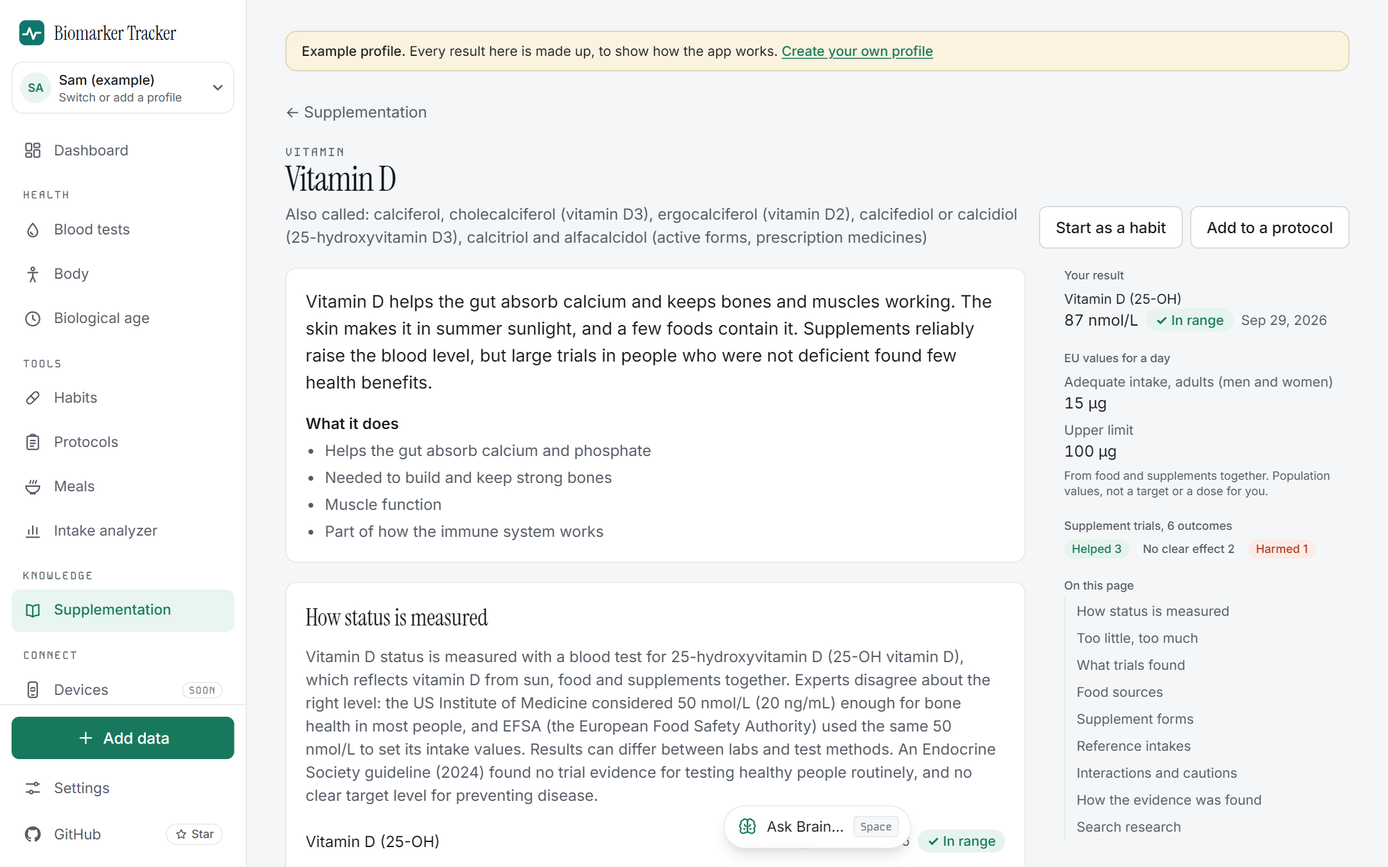
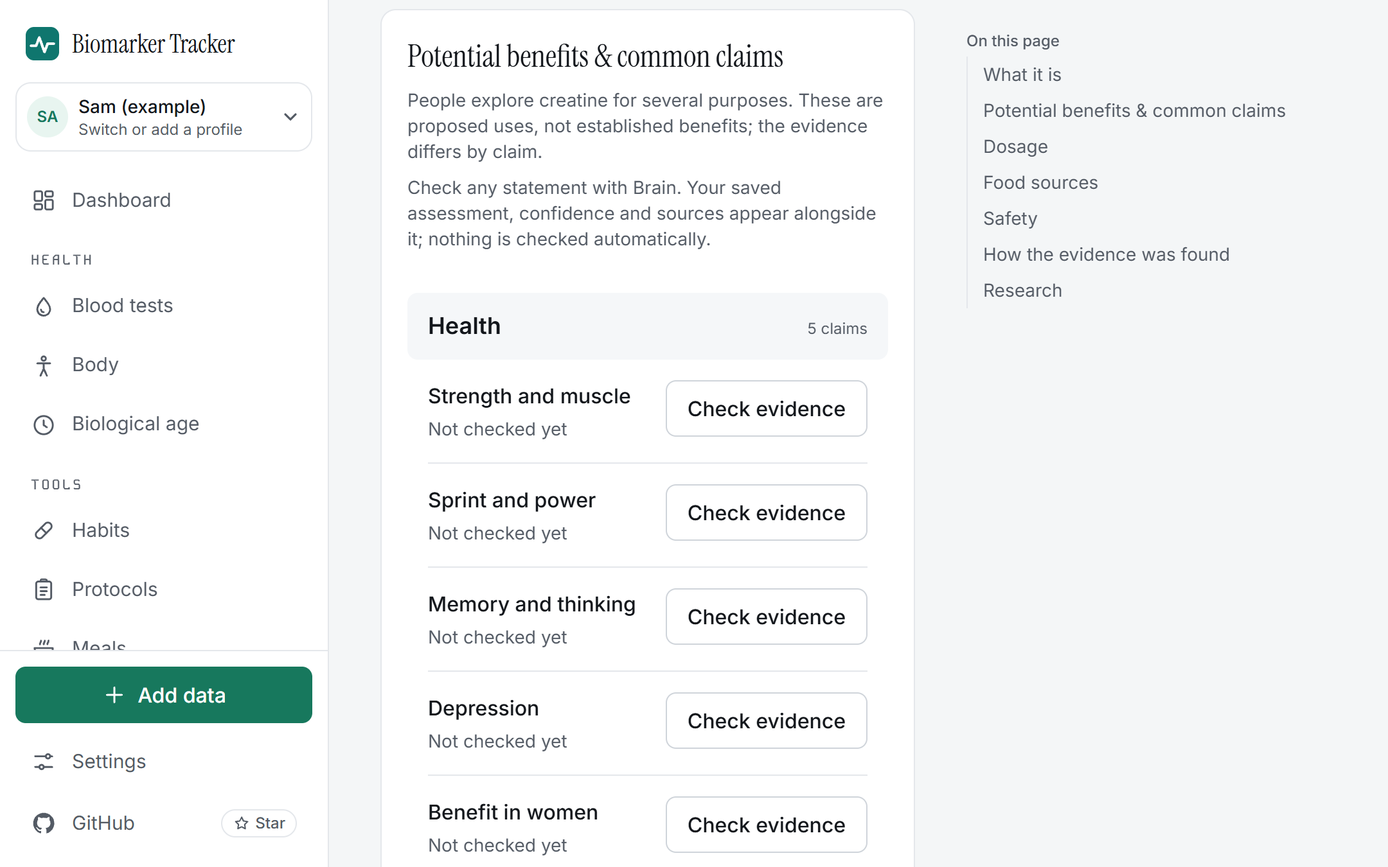
README: every feature, new screenshots; two fixes found while taking them
README adds pace of aging, aging clocks, the PhenoAge gap in Habits, HRV usual range, activity and sleep rules, waist-to-height years lost, resting metabolic rate, test and year summaries, doctor report questions, example meals, whole foods compared, intake analyzer and protocols, profiles and backups, dark mode, Brain shortcuts, streaming, Summarize with Brain and the eve engine.
New screenshots from the example profile: foods, Then and now, a supplement's claims, lifestyle drawings, test summary, doctor report, pace of aging.

Fixes: the food drawing no longer covers the Start as a habit / Add to a protocol buttons on wide screens; doctor questions say "platelets have been" instead of "platelets has been" (isPluralName, tested against every marker name).

diff --git a/packages/shared/src/core/periodSummary.ts b/packages/shared/src/core/periodSummary.ts
@@ -12,6 +12,7 @@
 import { phenoAgePace } from "./agePace";
 import { addDays, daysBetween } from "./dates";
 import { personalBand, rcvBand } from "./experiments";
+import { isPluralName } from "./testSummary";
 import { type Flag, flagMeasurement, isOutOfRange, sortByDate } from "./trends";
 import type { BiomarkerDef, Measurement, Profile } from "./types";
 import { formatValue } from "./units";
@@ -121,6 +122,8 @@ function trendOf(ms: readonly Measurement[]): PeriodMarker["trend"] {
 }
 
 const inSentence = (s: string) => (/^[A-Z][a-z]/.test(s) ? s.charAt(0).toLowerCase() + s.slice(1) : s);
+const has = (name: string) => (isPluralName(name) ? "have" : "has");
+const was = (name: string) => (isPluralName(name) ? "were" : "was");
 
 export function buildPeriodSummary(input: {
   measurements: readonly Measurement[];
@@ -215,14 +218,14 @@ function questionsFor(
     const name = inSentence(m.name);
     if (m.outside > 0 && m.outside === m.results.length && m.results.length >= 2) {
       qs.push(
-        `My ${name} was outside its range on ${m.results.length === 2 ? "both" : `all ${m.results.length}`} tests in this period. What could explain it, and does it need follow-up?`,
+        `My ${name} ${was(name)} outside its range on ${m.results.length === 2 ? "both" : `all ${m.results.length}`} tests in this period. What could explain it, and does it need follow-up?`,
       );
     } else if (m.trend && m.trend.verdict !== "unclear") {
-      qs.push(`My ${name} has been ${m.trend.verdict} over ${m.trend.tests} tests since ${fmtDate(m.trend.from)}. Is that worth following up?`);
+      qs.push(`My ${name} ${has(name)} been ${m.trend.verdict} over ${m.trend.tests} tests since ${fmtDate(m.trend.from)}. Is that worth following up?`);
     } else if (isOutOfRange(m.lastFlag)) {
       const unit = defs.get(m.id)!.canonicalUnit;
       qs.push(
-        `My latest ${name} was ${m.last.qualifier ?? ""}${formatValue(m.last.value)}${unit === "ratio" ? "" : ` ${unit}`}, outside its range. Should it be re-tested?`,
+        `My latest ${name} ${was(name)} ${m.last.qualifier ?? ""}${formatValue(m.last.value)}${unit === "ratio" ? "" : ` ${unit}`}, outside its range. Should it be re-tested?`,
       );
     }
   }

diff --git a/tests/core/testSummary.test.ts b/tests/core/testSummary.test.ts
@@ -1,7 +1,7 @@
 import { readFileSync } from "node:fs";
 import { join } from "node:path";
 import type { NutrientDef } from "@bt/shared/core/nutrients";
-import { buildTestSummary, rangeText, SUMMARY_LIMITS } from "@bt/shared/core/testSummary";
+import { buildTestSummary, isPluralName, rangeText, SUMMARY_LIMITS } from "@bt/shared/core/testSummary";
 import type { Measurement, ProtocolEntry } from "@bt/shared/core/types";
 import { describe, expect, it } from "vitest";
 import { loadDefs, measurement } from "../helpers";
@@ -161,5 +161,40 @@ describe("rangeText", () => {
     expect(rangeText({ high: 5 }, "mg/L")).toBe("below 5 mg/L");
     expect(rangeText({ low: 90 }, "ratio")).toBe("above 90");
     expect(rangeText(undefined, "g/L")).toBeUndefined();
+  });
+});
+
+describe("isPluralName", () => {
+  it("reads marker names whose main word ends in s as plural", () => {
+    for (const n of ["platelets", "Lymphocytes (%)", "neutrophils (absolute count)", "triglycerides", "Thyroid peroxidase antibodies"])
+      expect(isPluralName(n)).toBe(true);
+    for (const n of ["ferritin", "Haemoglobin (Hb)", "LDL cholesterol (LDL-C)", "Vitamin D (25-OH)", "Lp(a)"]) expect(isPluralName(n)).toBe(false);
+  });
+
+  it("finds exactly the plural names among the marker files", () => {
+    const plural = [...loadDefs().values()].filter((d) => isPluralName(d.name)).map((d) => d.name);
+    // Each of these is a plural; any new name ending in "s" must be checked by hand and added.
+    expect(plural.sort()).toEqual(
+      [
+        "Basophils (absolute count)",
+        "Basophils (%)",
+        "Daily steps",
+        "Eosinophils (absolute count)",
+        "Eosinophils (%)",
+        "Five chair rises",
+        "Lymphocytes (absolute count)",
+        "Lymphocytes (%)",
+        "Monocytes (absolute count)",
+        "Monocytes (%)",
+        "Neutrophils (absolute count)",
+        "Neutrophils (%)",
+        "Platelets",
+        "Push-ups",
+        "Red blood cells",
+        "Thyroid peroxidase antibodies",
+        "Triglycerides",
+        "White blood cells",
+      ].sort(),
+    );
   });
 });

diff --git a/packages/shared/src/core/testSummary.ts b/packages/shared/src/core/testSummary.ts
@@ -208,6 +208,10 @@ export function buildTestSummary(input: SummaryInput): TestSummary | undefined {
 const list = (names: readonly string[]) => (names.length <= 1 ? names.join("") : `${names.slice(0, -1).join(", ")} and ${names.at(-1)}`);
 /** "haemoglobin" inside a sentence, but "LDL cholesterol" and "C-reactive protein" keep their capitals. */
 const inSentence = (s: string) => (/^[A-Z][a-z]/.test(s) ? s.charAt(0).toLowerCase() + s.slice(1) : s);
+/** "platelets have", "ferritin has": every marker name whose main word ends in "s" is a plural (checked against all marker files). */
+export const isPluralName = (s: string): boolean => /s$/i.test(s.split(/ \(|,/)[0]!.trim());
+const has = (name: string) => (isPluralName(name) ? "have" : "has");
+const was = (name: string) => (isPluralName(name) ? "were" : "was");
 
 function cautionsFor(
   results: readonly SummaryResult[],
@@ -281,11 +285,13 @@ function questionsFor(
     const s = side(r.flag)!;
     const name = inSentence(def.name);
     if (r.streak >= 2) {
-      qs.push(`My ${name} has been ${s} on ${r.streak} tests in a row, since ${fmtDate(r.streakFrom)}. What could explain it, and does it need follow-up?`);
+      qs.push(
+        `My ${name} ${has(name)} been ${s} on ${r.streak} tests in a row, since ${fmtDate(r.streakFrom)}. What could explain it, and does it need follow-up?`,
+      );
     } else {
       const range = rangeText(r.range, def.canonicalUnit);
       qs.push(
-        `My ${name} was ${valueText(r.measurement, def.canonicalUnit)}, ${s === "high" ? "above" : "below"} the range${range ? ` (${range})` : ""}. What could explain it, and should it be re-tested?`,
+        `My ${name} ${was(name)} ${valueText(r.measurement, def.canonicalUnit)}, ${s === "high" ? "above" : "below"} the range${range ? ` (${range})` : ""}. What could explain it, and should it be re-tested?`,
       );
     }
   }

diff --git a/apps/web/src/app/pages/WholeFoodsPage.tsx b/apps/web/src/app/pages/WholeFoodsPage.tsx
@@ -151,15 +151,14 @@ export function WholeFoodPage({ id }: { id: string }) {
 
   return (
     <>
-      <div className="relative">
-        <div className="pointer-events-none absolute inset-x-0 top-0 max-w-3xl">
-          <FoodArt name={f.id} large />
-        </div>
+      <div>
         <a href={href({ name: "wholefoods" })} className="mb-3 inline-flex min-h-11 items-center gap-1 text-ink-2 no-underline hover:text-ink">
           <span aria-hidden="true">←</span> Foods
         </a>
         <div className="mb-5 flex flex-wrap items-end justify-between gap-3">
-          <div className="sm:pr-32">
+          {/* The drawing sits at the end of the title block, so it never covers the buttons beside it. */}
+          <div className="relative min-w-0 grow sm:pr-32">
+            <FoodArt name={f.id} large />
             <p className={eyebrowStyles}>{GROUP_LABEL[f.group]}</p>
             <h1 className="font-serif text-3xl font-normal tracking-tight sm:text-4xl">{f.name}</h1>
             {f.otherNames.length > 0 && <p className="mt-1 max-w-3xl text-ink-2">Also: {f.otherNames.slice(0, 3).join(", ")}</p>}

diff --git a/apps/web/src/app/components/FoodArt.tsx b/apps/web/src/app/components/FoodArt.tsx
@@ -434,7 +434,7 @@ export function FoodArt({ name, className, large }: { name: string; className?: 
       viewBox="0 0 64 64"
       aria-hidden="true"
       role="presentation"
-      className={`pointer-events-none absolute opacity-80 ${large ? "top-10 right-0 hidden size-28 sm:block" : "top-2 right-2 size-[4.5rem]"} ${className ?? ""}`}
+      className={`pointer-events-none absolute opacity-80 ${large ? "-top-2 right-0 hidden size-28 sm:block" : "top-2 right-2 size-[4.5rem]"} ${className ?? ""}`}
       fill="none"
       stroke={INK}
       strokeWidth="0.85"

diff --git a/README.md b/README.md
@@ -52,9 +52,13 @@ The review for PDFs and photos includes the sample date, lab name, **Were you fa
 
 The five extended lipid markers work with manual entry, PDF/photo review, charts and doctor reports. ApoA-I and ApoB support g/L, mg/dL and mg/L; non-HDL supports mmol/L and mg/dL. The two ratios are dimensionless and can be read from reports without a printed unit. These entries use your lab's supplied range rather than a universal app threshold. Ratios and non-HDL are recorded as reported, not silently calculated from other results.
 
-**Test summaries:** open **Summary of the latest test** on Blood tests, or **Summary of this test** on the timeline, for one blood test explained in plain words: critical results first, results outside the range by category with what high and low can mean, change since the previous result judged against normal test-to-test variation, results back in range, and things worth knowing (fasting, supplements that skew a lab test, values read from a photo). **Questions for your doctor** are written from your own numbers and can be copied or added to the doctor report. The **A year** tab compares the last 12 months (or a calendar year) with the period before, test to test, and shows a trend only with three or more results over at least a year. It explains; it never diagnoses or says what to take.
-
 <img src="docs/screenshots/blood-tests.png" alt="Blood tests dashboard: biological age, markers in range, markers to watch, a timeline of every blood test, and tiles for each marker" width="100%">
+
+### Test and year summaries
+
+<img src="docs/screenshots/test-summary.png" alt="Test summary of the latest blood test: one result outside its range with what a high value can mean, notes worth knowing about fasting and typical ranges, and questions for your doctor" width="100%">
+
+Open **Summary of the latest test** on Blood tests, or **Summary of this test** on the timeline, for one blood test explained in plain words: critical results first, results outside the range by category with what high and low can mean, change since the previous result judged against normal test-to-test variation, results back in range, and things worth knowing (fasting, supplements that skew a lab test, values read from a photo). **Questions for your doctor** are written from your own numbers and can be copied or added to the doctor report. The **A year** tab compares the last 12 months (or a calendar year) with the period before, test to test, and shows a trend only with three or more results over at least a year. It explains; it never diagnoses or says what to take.
 
 ### Biological age, heart age and fitness age
 
@@ -66,6 +70,14 @@ The five extended lipid markers work with manual entry, PDF/photo review, charts
 - **Seven age-related fitness tests** (grip strength, push-ups, chair rises, one-leg stand, walking speed, sitting-rising) placed on published norm tables for your age and sex.
 - The three ages are never averaged into one number, because they estimate different things.
 - Missing your birth month? Enter the month and year and press **Save** directly on the Body or Biological age page. The estimates update together; no day of birth is needed.
+
+**Pace of aging** shows two measures side by side, never averaged. **Your PhenoAge, test to test** is the slope of your PhenoAge over the blood tests of the last three years (at least three tests over a year or more), with a 95 % range; it says slower or faster only when the whole range agrees, and it is labelled as calculated by the app, not DunedinPACE. **DunedinPACE** is a DNA methylation test from a specialised lab: the app records the number your lab reports and never calculates it, and shows your average and the Rejuvenation Olympics leaderboard score (the average of your best 3 tests over 2 years), with a note that the best 3 always sit at or below your average.
+
+<img src="docs/screenshots/pace-of-aging.png" alt="Pace of aging: PhenoAge changing at minus 1.38 years per calendar year with its likely range, and DunedinPACE 0.88 with the average and leaderboard score of the last three tests" width="100%">
+
+**What has moved these clocks in studies** lists the 12 things tested in people against PhenoAge, DunedinPACE and other methylation clocks (calorie restriction, omega-3, multivitamins, exercise, diets, metformin and more), each graded, including the ones where nothing changed. A note says these clocks are stand-ins: nobody has shown that lowering them adds years. Linked food, supplement and lifestyle pages show the same result as an **Aging clocks** note.
+
+**Watch your PhenoAge in Habits:** once you have a complete PhenoAge test, a habit can watch the **PhenoAge gap** (PhenoAge minus calendar age at each test). It is compared like any marker, with the noise taken from your own tests, and the page says lowering the gap hasn't been shown to add years.
 
 **Country population reference (always available):** the Biological age page shows a survival curve, median age reached, average remaining years and the middle-half age range for people alive at your current age. The curve marks **Your age** and has a table view. It uses the country in Settings; if missing, choose it on the page and press **Save**. Your health readings do not change this reference. It assumes the source period's death rates stay constant, not that they predict your future.
 
@@ -84,6 +96,12 @@ Active time is used only after you confirm that the saved minutes are actual mod
 <img src="docs/screenshots/body.png" alt="Body dashboard: weight, waist, waist-to-height ratio, BMI, blood pressure, resting heart rate, heart rate variability, sleep and blood oxygen" width="100%">
 
 Weight, waist, body fat, blood pressure, resting heart rate, heart rate variability (HRV), blood oxygen, sleep, home blood glucose and VO₂max. Import exports from Apple Health, Fitbit, Google Fit, Samsung Health, Garmin, Oura, Whoop, Withings, Polar, Zepp and Huawei Health, or any CSV or JSON file. Files are read on your computer and never uploaded. No made-up "readiness" or "sleep scores": only what was measured.
+
+- **Heart rate variability** has no population range, so the app shows **your usual range**: the spread of your own readings in the 60 days before the last week, with last week's average marked inside, below or above it. It is never a medical flag.
+- **Activity:** daily steps lead with last week's daily average, with no official target. Active minutes (moderate or harder) are checked as a **weekly total** against the WHO's 150 minutes; single days are never flagged.
+- **Sleep** is judged on the week's average against the 7 to 9 hour range, not on single nights. Deep and REM sleep have no range, because wearables misjudge sleep stages.
+- **Waist-to-height:** the Waist page draws your ratio at every measurement on Ashwell's ranges, and shows the years of life lost from Ashwell et al. 2014 copied exactly from the paper, with your row and ratio marked and nothing filled in between.
+- **Resting metabolic rate** (Mifflin–St Jeor) opens a window with the sum worked through with your own numbers, and adds Cunningham's lean-mass equation beside it when you have a body-fat reading. It is an estimate of about ±10 %, never a calorie target.
 
 **Body-fat comparisons:** the Body fat page keeps its existing history chart and adds a separate comparison with your reading marked. The main reference uses sex and age at the reading (20–79 years), with neutral Below reference / Within reference / Above reference / Above reference (upper band) labels. These provisional, BMI-derived values are not minimum and maximum healthy body-fat levels. A position outside them alone does not produce a clinical Low/High/Normal badge, a “To watch” warning or a doctor alert; explicit laboratory ranges and critical limits still apply. Brain and doctor reports receive the same comparison-only distinction. An expandable five-category reference—essential fat, athletes, fitness, average and obesity—is sex-specific but not age-adjusted, and does not assess athletic fitness. Missing details or unsupported ages never produce invented age bands. Weight and BMI do not gain classification bands.
 
@@ -121,13 +139,15 @@ Re-importing device files updates existing readings for the same measurement and
 
 ### A report for your doctor
 
+<img src="docs/screenshots/doctor-report.png" alt="Report preview: Health report for your doctor with the selected period, the app logo and a QR code to the source, a fictional-example notice, and profile information" width="100%">
+
 In **Settings → Your data → Doctor-ready report**, choose the dates and measurements to share, create a preview, then press **Print / save as PDF** and select your browser's **Save as PDF** destination. Only the report is printed, not Settings or the app navigation. It works locally without AI, a server or an external PDF service. You can also ask **Brain** where to export a report for your doctor; it explains these steps rather than claiming to create or send the PDF itself.
 
 The summary shows only the latest result, date, reference range and flag for each selected measurement, separated into **Blood tests** and **Body measurements**. Body measurements use the same groups and order as the Body page, including adjacent systolic and diastolic blood pressure readings. Reading details contain black-and-white charts of **every selected reading within the dates**, including daily device history, without a value-by-value list. Reported limits use arrows rather than exact-value dots; readings are never averaged or removed.
 
 Optional profile information includes the latest recorded weight on or before the report end, with its date and unit, even if weight is not selected for a chart. With profile details included, **BMI and the Mifflin–St Jeor resting metabolic rate estimate appear both in Profile information and under Body measurements → Size and composition**. The top shows the values; Size and composition adds the equation, inputs and limits. They are calculated figures, not additional saved readings; the equation uses age at the weight reading and is not a calorie target. These fields are omitted when profile details are off.
 
-Source and fasting context remain beside each chart. Logged medicines, supplements and habits are optional; grouped protocols retain their recorded item lists. Weekly activity references are not presented as daily ranges. Private profile/result/protocol-item notes are excluded unless selected. Example data stays clearly labelled on every printed page, and changes are not presented as evidence that a habit caused them. The report header includes the app logo, name and an embedded GitHub QR code containing only the public repository URL. This handout is not a backup or a verified laboratory report.
+**Include questions to discuss** adds the questions from the test summary of the latest blood test in the period. Source and fasting context remain beside each chart. Logged medicines, supplements and habits are optional; grouped protocols retain their recorded item lists. Weekly activity references are not presented as daily ranges. Private profile/result/protocol-item notes are excluded unless selected. Example data stays clearly labelled on every printed page, and changes are not presented as evidence that a habit caused them. The report header includes the app logo, name and an embedded GitHub QR code containing only the public repository URL. This handout is not a backup or a verified laboratory report.
 
 ### Habits and self-experiments
 
@@ -140,22 +160,31 @@ Log supplements, diet changes, medicines and routines, then watch chosen markers
 <img src="docs/screenshots/protocol.png" alt="A supplement protocol shown as a daily schedule from morning to bedtime, with warnings about items that interact" width="100%">
 
 - **Protocols:** a supplement stack, diet or routine as a daily schedule, with interaction warnings between items and with your medicines or conditions. Starting one adds one named habit, with all items kept in collapsible details: amounts, timing, days and notes as they were when started. Later protocol edits or deletion don't change that record. Watch markers for the whole routine; a comparison cannot tell which item caused a change. Older runs recorded as separate habits keep their history.
-- **Meals:** build meals from 2,887 foods in the UK CoFID 2021 food table and see what was measured in them, with a note on how much food chemistry those numbers leave out ("nutritional dark matter").
-- **Intake analyzer:** compare a day's meals, foods and supplements with EU (EFSA) reference values. No calorie targets and no weight-loss plans.
+- **Meals:** build meals from 2,887 foods in the UK CoFID 2021 food table and see what was measured in them, with a note on how much food chemistry those numbers leave out ("nutritional dark matter"). **Example meals "for your results"** appear when a marker is out of range in a direction a food study addresses, and are hidden when they clash with your medicines or conditions (spinach with blood thinners, for example).
+- **Whole foods compared:** 30 claims people make about animal and plant foods (the food matrix, absorption, vitamins, safety: fibre, phytate, oxalate, heavy metals, amino acids), each with a verdict, a grade, what the other side says and an evidence map. No diet is recommended.
+- **Intake analyzer:** compare a day's meals, foods and supplements with EU (EFSA) reference values. No calorie targets and no weight-loss plans. **Load a protocol** adds a protocol's meals, foods and supplements in one go (amounts it can't read are listed for you to type in from the label, never guessed), and **Create a protocol from this** turns the list back into one. **What would add the most** names foods and your own meals with the most of the nutrients furthest below the reference, leaving out foods your medicines, conditions or upper limits rule out; supplements are only a link to their page, never an amount.
+- **Start as a habit** and **Add to a protocol** are on every food, supplement, lifestyle and meal page (sleep links to your sleep chart instead), so what you read about can become something you track.
 
 <img src="docs/screenshots/intake.png" alt="Intake analyzer: a day of meals and foods compared with EFSA reference intakes for energy, macronutrients, vitamins and minerals" width="100%">
 
 ### Foods, supplements and lifestyle knowledge
 
-<img src="docs/screenshots/supplement.png" alt="Vitamin D page: what it does, how status is measured, food sources, supplement forms, and findings from trials with evidence grades" width="100%">
+<img src="docs/screenshots/foods.png" alt="Foods list: cards for apple, avocado, bilberry and blackberry, each with a short summary and a pen-and-ink drawing" width="100%">
 
 The Knowledge pages cover **60 whole foods, 64 supplements** (vitamins, minerals and others such as creatine, omega-3, CoQ10, melatonin and curcumin) and **14 lifestyle topics**. Search finds an entry by any of its names. Foods, supplements and habits are kept apart: a food holds thousands of compounds, and a study of people eating it is a different thing from a study of one nutrient in a pill.
 
 Every page has **Common claims to check**: what people say it does, grouped under Health, Longevity and Appearance, from well-supported to myth. A claim says **Not checked yet** until you press **Check evidence** (see below); the app ships no verdicts of its own for these. Personal warnings come first when your medicines or conditions interact with the entry.
 
+<img src="docs/screenshots/supplement.png" alt="Creatine page: Potential benefits and common claims, grouped under Health, each claim not checked yet with a Check evidence button" width="100%">
+
 - **Supplements** use one guide layout: what it is and where it comes from, potential benefits and common claims, dosage as official bodies describe it (EFSA reference intakes and upper limits, never a personal dose), food sources with amounts computed from the food table, safety and interactions, and research. Twenty of them (vitamins, minerals, creatine, omega-3, CoQ10, psyllium, biotin) also keep their evidence maps. Protocol items link to these guides by name.
 - **Lifestyle** (walking, sauna, red light, sleep, cold water, HIIT, Zone 2 cardio, weight lifting, keto, low-calorie, paleo and vegan diets, UV protection, hyperbaric oxygen): graded findings from studies in people, drawings (bar charts, light spectra, steps and ranges, every number from a cited source), what the studies had people do (described, never advised), who should be careful, what isn't known, and an evidence map for each.
+
+  <img src="docs/screenshots/lifestyle.png" alt="Sauna page, In pictures: heart deaths by how often people used a sauna, drawn as ratios with 95 % intervals from two cohort studies" width="100%">
+
 - **Foods:** twelve have full research pages with graded findings, drawings and evidence maps. The other 48 are **lean pages**, written without a research survey, because findings change over time and there are 40+ of them. Every food has **Then and now**: what ancient writers believed the food did for the body, each belief with where it is written (Hippocrates, Aristotle, Theophrastus, Dioscorides, Galen, Pliny, Celsus, Athenaeus, Plato, Cato, Columella and others, read in open translations). A belief is listed only after the passage was opened or a scholarly paper confirmed it; popular sayings with no source are left out, and a page that finds nothing says so without claiming the food was never used. Then come what's in it (from the UK food table), what changes it, who should be careful, what isn't known, and sources. Each food has a small pen-and-ink drawing. The writer list, and the cultures left out of it, are in `tools/wholefoods/ancientSources.ts`; a test enforces them.
+
+  <img src="docs/screenshots/food-then-and-now.png" alt="Figs, Then and now: Diogenes Laertius and Pliny the Elder on athletes who trained on dried figs, each with the translated passage and a scholarly source linked" width="100%">
 
 Graded findings show the people studied and the strength of the evidence, with a short bottom line first and the full summary, grade reasons and citations behind **Read the full summary**. A "Studies last searched" date says when the search behind them was run. Every citation was checked against Europe PMC, EFSA or the original source. Grades and wording have not yet been reviewed by a clinician, and the pages say so.
 
@@ -185,7 +214,13 @@ You choose the model:
 - **Local models** through Ollama or LM Studio.
 - **Agent programs you've signed into:** Claude Code, Codex, Hermes or OpenClaw. These are labelled "depends on your login", because the app can't check what they keep.
 
+Brain opens in a window on every page: press **Space** (when you're not typing), **Ctrl/⌘+K** to toggle it, **Esc** to close. Answers stream in as they are written, with each research tool shown while it runs; Stop ends the run and any program it started. Every paper in a marker's research results has **Summarize with Brain**, which reads that one study's abstract. **Run in eve** (Settings → AI models, an opt-in preview) answers API and local models inside the eve agent runtime, with keys, zero-retention routing and tools still kept on the local server.
+
 Conversations are kept in your profile, so **New chat** starts a fresh one and earlier ones stay under **Past conversations**. Your name and private notes are never sent. Optional Skills and medical MCP servers (PubMed, ClinicalTrials.gov, openFDA, medical terminologies, food data) add research tools.
+
+### Profiles, backups and the example
+
+Each person is a folder on your computer. Switch profiles from the menu at the top of the sidebar, and open, back up, show the folder of, or delete them on the **Profiles** page. A backup is a .zip of the folder; **Load a profile** on the first screen takes a backup or a profile folder (or a folder of several profiles) from another computer, without asking the setup questions again. **Just looking?** opens an example profile with five years of made-up results, habits, protocols and DunedinPACE tests; a banner on every page says the data is fictional. Choose **Light**, **Dark** or **Match my device** in Settings → Appearance.
 
 ### Works on your phone
 
